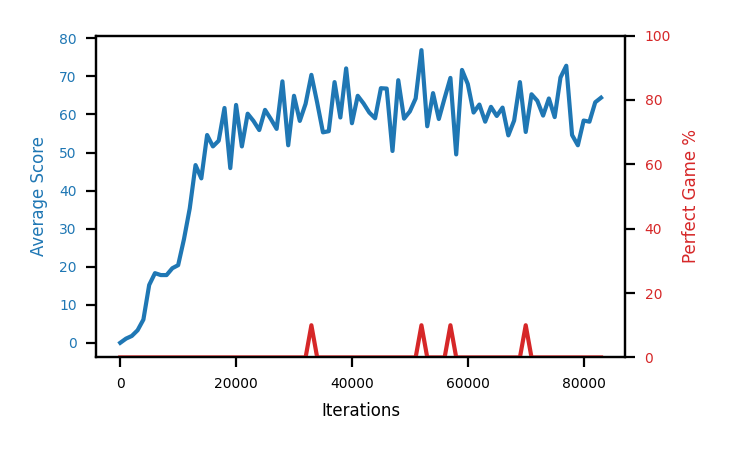
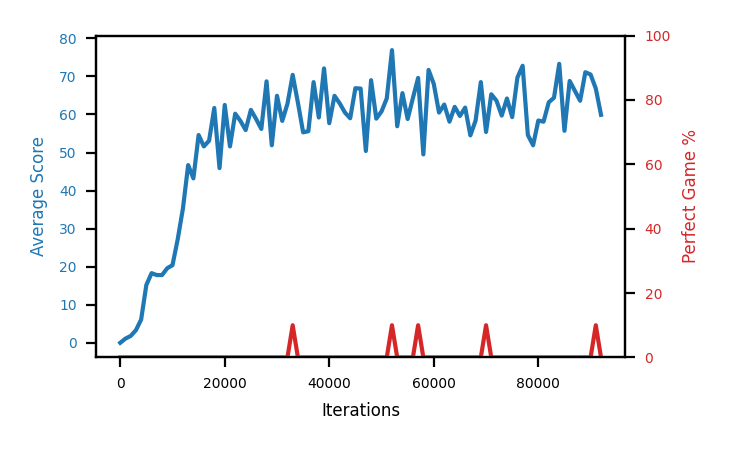
Put perfect-game rate at the centre of the tuning objective
The protocol described minimal catastrophic forgetting as the thing being
chased, which is wrong: the objective is the highest possible perfect-game
percentage, reached by learning consistently. Forgetting matters only as one
of the things that breaks consistency.

That mis-framing had a concrete consequence -- the ranked metrics list
contained no measure of perfect games at all, the one thing being optimised.
It now leads with trailing-window perfect-game rate and steps to the first
perfect game. A trailing window is necessary because a single eval is 10
episodes, so one perfect game reads as a coarse 10%.

Score stays the workhorse for comparing configs, now with the reason
recorded: perfect-game rate is 0 for tens of thousands of steps, so it
cannot separate two configs early while score already can.

Max drawdown is demoted to a diagnostic for inconsistency. A config with a
large drawdown that reaches a high perfect-game rate still wins. Its longer
description is reverted; the flaws found in batch 1 stay in the results
section where they belong as findings.

Batch 1 results rebuilt at matched step 83000 with the objective metrics
first, plus a caution that a 1.5% trailing rate is three perfect games
across 200 episodes and far too coarse to pick a winner on at this horizon.

Run artifacts are mid-run snapshots; all three arms are still training.

diff --git a/snek2/hyperparamTuning.md b/snek2/hyperparamTuning.md
@@ -1,8 +1,9 @@
 # Hyperparameter tuning protocol
 
-Long-running, resumable investigation into what makes snek2 learn **consistently**
-with **minimal catastrophic forgetting**, and eventually reach a higher
-perfect-game percentage.
+Long-running, resumable investigation into what makes snek2 reach the **highest
+possible perfect-game percentage**, and get there by **learning consistently**.
+Those two are the objective. Catastrophic forgetting matters as one of the things
+that breaks consistency, not as a target in its own right.
 
 This file is the handoff document. A fresh Claude Code session should be able to
 read it and continue without any other context. Keep it current: it is more
@@ -26,36 +27,21 @@ needs roughly **1M iterations / 4-5 hours** of training and then plateaus around
 Because of that, avoid the final eval as a metric. Prefer, in rough order of
 usefulness:
 
-1. **last-5-eval average** — much lower variance than a single eval.
-2. **mean over the whole curve** — rewards learning early and holding on.
-3. **max drawdown** — how much score the policy gave back after peaking. Borrowed
-   from finance: track the best avg_score seen so far, and record the largest gap
-   between that running peak and a later eval.
-
-   ```python
-   peak, worst = float('-inf'), 0.0
-   for row in eval_rows:
-       peak = max(peak, row['avg_score'])
-       worst = max(worst, peak - row['avg_score'])
-   ```
-
-   Units are avg_score, i.e. food eaten. `b1a-base` peaked at 78.6 and later read
-   59.5, so its max drawdown is 19.1 — it lost 19 food off its best. High drawdown
-   is meant to mean "learned something and then lost it", which is the
-   catastrophic-forgetting symptom this investigation is chasing.
-
-   **Two known flaws, so don't lean on it alone:**
-   - It can't tell steady oscillation around a *high* plateau from a genuine
-     collapse. `b1b-tgt200` scores worse than the baseline on it purely for
-     bouncing around while sitting at a similar level.
-   - It's an absolute number, so a run that reaches higher scores has further to
-     fall and is penalised for being good. Comparing drawdown across arms that
-     plateaued at very different heights is close to meaningless.
-
-   A better version would be the largest **sustained** drop — one that persists
-   across several consecutive evals rather than a single bad one — ideally as a
-   fraction of the peak. Not implemented yet.
-4. **steps to first reach score N** — for comparing learning speed.
+1. **perfect-game % over the last N evals** — the objective. Use a trailing window,
+   never a single eval: one eval is 10 episodes, so a single perfect game reads as
+   10% and the metric is extremely coarse.
+2. **steps to the first perfect game** — how fast a config gets into the region
+   that matters at all.
+3. **last-5-eval average score** — the leading indicator, and the workhorse for
+   comparing configs. Needed because perfect-game % sits at 0 for tens of
+   thousands of steps, so early on it cannot tell two configs apart while score
+   already can.
+4. **mean over the whole curve** — rewards learning early and holding on.
+5. **steps to first reach score N** — for comparing learning speed.
+6. **max drawdown** — biggest drop from a running peak. A diagnostic for
+   inconsistency rather than an objective: useful for explaining *why* a config is
+   erratic, but a config with a large drawdown that reaches a high perfect-game
+   rate still wins.
 
 ---
 
@@ -214,14 +200,19 @@ These are already established; don't re-litigate them without new evidence.
 
 ### Batch 1 — interim, all still running
 
-Compared at **matched step 68000**, because wall-clock progress is not comparable
-between arms (see the eval-cost confound below).
+Compared at **matched step 83000**, because wall-clock progress is not comparable
+between arms (see the eval-cost confound below). Objective metrics first.
 
-| policy | key change | last-5 | curve mean | max drawdown | peak |
-|---|---|---|---|---|---|
-| `b1a-base` | none (control) | **70.5** | 49.1 | 19.1 | 78.6 |
-| `b1b-tgt200` | `TARGET_UPDATE_PERIOD=200` | 59.3 | **51.6** | 27.4 | 76.9 |
-| `b1c-nstep3` | `N_STEP_UPDATE=3` | 32.6 | 13.9 | **13.0** | 38.1 |
+| policy | key change | trailing-20 perfect % | 1st perfect | last-5 score | curve mean | max drawdown | peak |
+|---|---|---|---|---|---|---|---|
+| `b1a-base` | none (control) | **1.5** | 44000 | **66.0** | 52.4 | 19.2 | 78.6 |
+| `b1b-tgt200` | `TARGET_UPDATE_PERIOD=200` | 0.5 | **33000** | 59.2 | **53.4** | 27.4 | 76.9 |
+| `b1c-nstep3` | `N_STEP_UPDATE=3` | 0.0 | never | 26.3 | 16.5 | 18.6 | 38.1 |
+
+Perfect-game rate is still tiny and very coarse at this horizon — a trailing-20
+average of 1.5% is three perfect games across 200 episodes. It is not yet a
+reliable way to separate these arms, which is exactly why score is the workhorse
+metric this early. Do not pick a winner on perfect % at 83k steps.
 
 Graphs update live as the runs progress. Paths are relative to this file, which
 sits in `snek2/` while the artifacts are in `snek2/runs/`.

diff --git a/snek2/runs/b1c-nstep3.md b/snek2/runs/b1c-nstep3.md
@@ -4,7 +4,7 @@
 
 Blue is average score (food eaten) on the left axis, red is perfect-game percentage on the right.
 
-Latest eval: step 178000, avg score 44.0, perfect games 0%.
+Latest eval: step 188000, avg score 70.1, perfect games 0%.
 
 ## Config
 
@@ -34,7 +34,7 @@ Latest eval: step 178000, avg score 44.0, perfect games 0%.
 
 ## Evals
 
-179 evals so far. Full series in [`b1c-nstep3_evals.json`](b1c-nstep3_evals.json).
+189 evals so far. Full series in [`b1c-nstep3_evals.json`](b1c-nstep3_evals.json).
 
 | step | avg score | trailing avg | min score | max score | avg reward | perfect % | epsilon |
 |---|---|---|---|---|---|---|---|
@@ -42,15 +42,15 @@ Latest eval: step 178000, avg score 44.0, perfect games 0%.
 | 1000 | 1.8 | 1.8 | 0 | 5/95 | -1.0 | 0 | 0.4 |
 | 2000 | 0.0 | 0.9 | 0 | 0/95 | -5.005 | 0 | 0.4 |
 | ... | | | | | | | |
-| 167000 | 39.2 | 42.1 | 22 | 72/95 | 34.031 | 0 | 0.001 |
-| 168000 | 41.7 | 41.12 | 15 | 76/95 | 36.472 | 0 | 0.001 |
-| 169000 | 41.9 | 41.62 | 9 | 78/95 | 37.09 | 0 | 0.001 |
-| 170000 | 47.4 | 40.9 | 16 | 85/95 | 42.536 | 0 | 0.001 |
-| 171000 | 38.4 | 41.72 | 8 | 78/95 | 33.59 | 0 | 0.001 |
-| 172000 | 53.4 | 44.56 | 8 | 80/95 | 47.966 | 0 | 0.001 |
-| 173000 | 56.7 | 47.56 | 18 | 91/95 | 51.282 | 0 | 0.001 |
-| 174000 | 50.2 | 49.22 | 30 | 73/95 | 44.835 | 0 | 0.001 |
-| 175000 | 33.6 | 46.46 | 10 | 79/95 | 28.405 | 0 | 0.001 |
-| 176000 | 48.2 | 48.42 | 26 | 76/95 | 42.837 | 0 | 0.001 |
 | 177000 | 54.9 | 48.72 | 30 | 80/95 | 49.564 | 0 | 0.001 |
 | 178000 | 44.0 | 46.18 | 20 | 66/95 | 38.743 | 0 | 0.001 |
+| 179000 | 53.8 | 46.9 | 17 | 82/95 | 48.413 | 0 | 0.001 |
+| 180000 | 34.7 | 47.12 | 13 | 57/95 | 29.496 | 0 | 0.001 |
+| 181000 | 61.1 | 49.7 | 20 | 93/95 | 55.567 | 0 | 0.001 |
+| 182000 | 48.0 | 48.32 | 22 | 84/95 | 42.645 | 0 | 0.001 |
+| 183000 | 48.6 | 49.24 | 14 | 74/95 | 43.755 | 0 | 0.001 |
+| 184000 | 58.7 | 50.22 | 30 | 80/95 | 53.676 | 0 | 0.001 |
+| 185000 | 49.2 | 53.12 | 22 | 78/95 | 43.872 | 0 | 0.001 |
+| 186000 | 60.2 | 52.94 | 22 | 87/95 | 54.772 | 0 | 0.001 |
+| 187000 | 49.1 | 53.16 | 16 | 77/95 | 43.757 | 0 | 0.001 |
+| 188000 | 70.1 | 57.46 | 44 | 85/95 | 64.601 | 0 | 0.001 |

diff --git a/snek2/runs/b1b-tgt200.md b/snek2/runs/b1b-tgt200.md
@@ -4,7 +4,7 @@
 
 Blue is average score (food eaten) on the left axis, red is perfect-game percentage on the right.
 
-Latest eval: step 83000, avg score 64.4, perfect games 0%.
+Latest eval: step 92000, avg score 59.9, perfect games 0%.
 
 ## Config
 
@@ -34,7 +34,7 @@ Latest eval: step 83000, avg score 64.4, perfect games 0%.
 
 ## Evals
 
-84 evals so far. Full series in [`b1b-tgt200_evals.json`](b1b-tgt200_evals.json).
+93 evals so far. Full series in [`b1b-tgt200_evals.json`](b1b-tgt200_evals.json).
 
 | step | avg score | trailing avg | min score | max score | avg reward | perfect % | epsilon |
 |---|---|---|---|---|---|---|---|
@@ -42,15 +42,15 @@ Latest eval: step 83000, avg score 64.4, perfect games 0%.
 | 1000 | 1.1 | 1.1 | 0 | 3/95 | -3.915 | 0 | 0.4 |
 | 2000 | 1.8 | 1.45 | 0 | 4/95 | -1.004 | 0 | 0.4 |
 | ... | | | | | | | |
-| 72000 | 63.6 | 62.24 | 25 | 85/95 | 60.265 | 0 | 0.001 |
-| 73000 | 59.7 | 62.5 | 20 | 83/95 | 54.744 | 0 | 0.001 |
-| 74000 | 64.2 | 61.64 | 22 | 87/95 | 59.95 | 0 | 0.001 |
-| 75000 | 59.3 | 62.42 | 22 | 85/95 | 54.703 | 0 | 0.001 |
-| 76000 | 69.7 | 63.3 | 54 | 82/95 | 64.999 | 0 | 0.001 |
-| 77000 | 72.8 | 65.14 | 59 | 78/95 | 67.637 | 0 | 0.001 |
-| 78000 | 54.6 | 64.12 | 44 | 86/95 | 50.091 | 0 | 0.001 |
-| 79000 | 51.9 | 61.66 | 28 | 68/95 | 46.565 | 0 | 0.001 |
-| 80000 | 58.4 | 61.48 | 23 | 81/95 | 53.392 | 0 | 0.001 |
 | 81000 | 58.1 | 59.16 | 34 | 86/95 | 53.068 | 0 | 0.001 |
 | 82000 | 63.2 | 57.24 | 51 | 71/95 | 58.54 | 0 | 0.001 |
 | 83000 | 64.4 | 59.2 | 27 | 89/95 | 59.794 | 0 | 0.001 |
+| 84000 | 73.3 | 63.48 | 38 | 87/95 | 68.529 | 0 | 0.001 |
+| 85000 | 55.7 | 62.94 | 35 | 69/95 | 50.781 | 0 | 0.001 |
+| 86000 | 68.8 | 65.08 | 50 | 93/95 | 64.129 | 0 | 0.001 |
+| 87000 | 66.2 | 65.68 | 55 | 78/95 | 61.125 | 0 | 0.001 |
+| 88000 | 63.6 | 65.52 | 36 | 76/95 | 59.017 | 0 | 0.001 |
+| 89000 | 71.1 | 65.08 | 56 | 81/95 | 66.327 | 0 | 0.001 |
+| 90000 | 70.5 | 68.04 | 41 | 90/95 | 65.444 | 0 | 0.001 |
+| 91000 | 66.8 | 67.64 | 38 | 95/95 | 72.465 | 10 | 0.001 |
+| 92000 | 59.9 | 66.38 | 22 | 86/95 | 55.322 | 0 | 0.001 |

diff --git a/snek2/runs/b1a-base.md b/snek2/runs/b1a-base.md
@@ -4,7 +4,7 @@
 
 Blue is average score (food eaten) on the left axis, red is perfect-game percentage on the right.
 
-Latest eval: step 79000, avg score 64.3, perfect games 10%.
+Latest eval: step 86000, avg score 75.2, perfect games 10%.
 
 ## Config
 
@@ -34,7 +34,7 @@ Latest eval: step 79000, avg score 64.3, perfect games 10%.
 
 ## Evals
 
-80 evals so far. Full series in [`b1a-base_evals.json`](b1a-base_evals.json).
+87 evals so far. Full series in [`b1a-base_evals.json`](b1a-base_evals.json).
 
 | step | avg score | trailing avg | min score | max score | avg reward | perfect % | epsilon |
 |---|---|---|---|---|---|---|---|
@@ -42,15 +42,15 @@ Latest eval: step 79000, avg score 64.3, perfect games 10%.
 | 1000 | 2.9 | 2.9 | 0 | 8/95 | -2.155 | 0 | 0.4 |
 | 2000 | 5.1 | 4.0 | 0 | 12/95 | 0.08 | 0 | 0.4 |
 | ... | | | | | | | |
-| 68000 | 70.3 | 70.46 | 50 | 88/95 | 65.468 | 0 | 0.001 |
-| 69000 | 70.9 | 69.94 | 18 | 91/95 | 67.344 | 0 | 0.001 |
-| 70000 | 69.9 | 69.8 | 44 | 83/95 | 65.454 | 0 | 0.001 |
-| 71000 | 64.2 | 69.12 | 37 | 93/95 | 59.866 | 0 | 0.001 |
-| 72000 | 69.8 | 69.02 | 37 | 91/95 | 65.9 | 0 | 0.001 |
-| 73000 | 67.1 | 68.38 | 22 | 90/95 | 63.182 | 0 | 0.001 |
-| 74000 | 64.6 | 67.12 | 35 | 87/95 | 61.502 | 0 | 0.001 |
 | 75000 | 74.5 | 68.04 | 53 | 93/95 | 70.394 | 0 | 0.001 |
 | 76000 | 68.1 | 68.82 | 7 | 91/95 | 64.166 | 0 | 0.001 |
 | 77000 | 65.6 | 67.98 | 36 | 95/95 | 71.279 | 10 | 0.001 |
 | 78000 | 72.8 | 69.12 | 28 | 87/95 | 69.666 | 0 | 0.001 |
 | 79000 | 64.3 | 69.06 | 30 | 95/95 | 69.564 | 10 | 0.001 |
+| 80000 | 70.3 | 68.22 | 48 | 86/95 | 66.771 | 0 | 0.001 |
+| 81000 | 59.4 | 66.48 | 35 | 89/95 | 56.791 | 0 | 0.001 |
+| 82000 | 67.5 | 66.86 | 38 | 85/95 | 63.081 | 0 | 0.001 |
+| 83000 | 68.7 | 66.04 | 42 | 84/95 | 65.183 | 0 | 0.001 |
+| 84000 | 71.3 | 67.44 | 48 | 93/95 | 66.482 | 0 | 0.001 |
+| 85000 | 68.8 | 67.14 | 40 | 91/95 | 64.756 | 0 | 0.001 |
+| 86000 | 75.2 | 70.3 | 53 | 95/95 | 81.556 | 10 | 0.001 |

diff --git a/CLAUDE.md b/CLAUDE.md
@@ -62,8 +62,9 @@ iteration instead of continuing.
 
 ## Hyperparameter tuning
 
-There is an ongoing, resumable investigation into configs that learn consistently
-without catastrophic forgetting, aiming at a higher perfect-game percentage. The
+There is an ongoing, resumable investigation into configs that reach the highest
+possible perfect-game percentage while learning consistently. Reducing
+catastrophic forgetting is a means to that end, not the goal itself. The
 protocol, prior findings, what is currently running, and the queue of planned
 experiments all live in **`snek2/hyperparamTuning.md`**.
 
